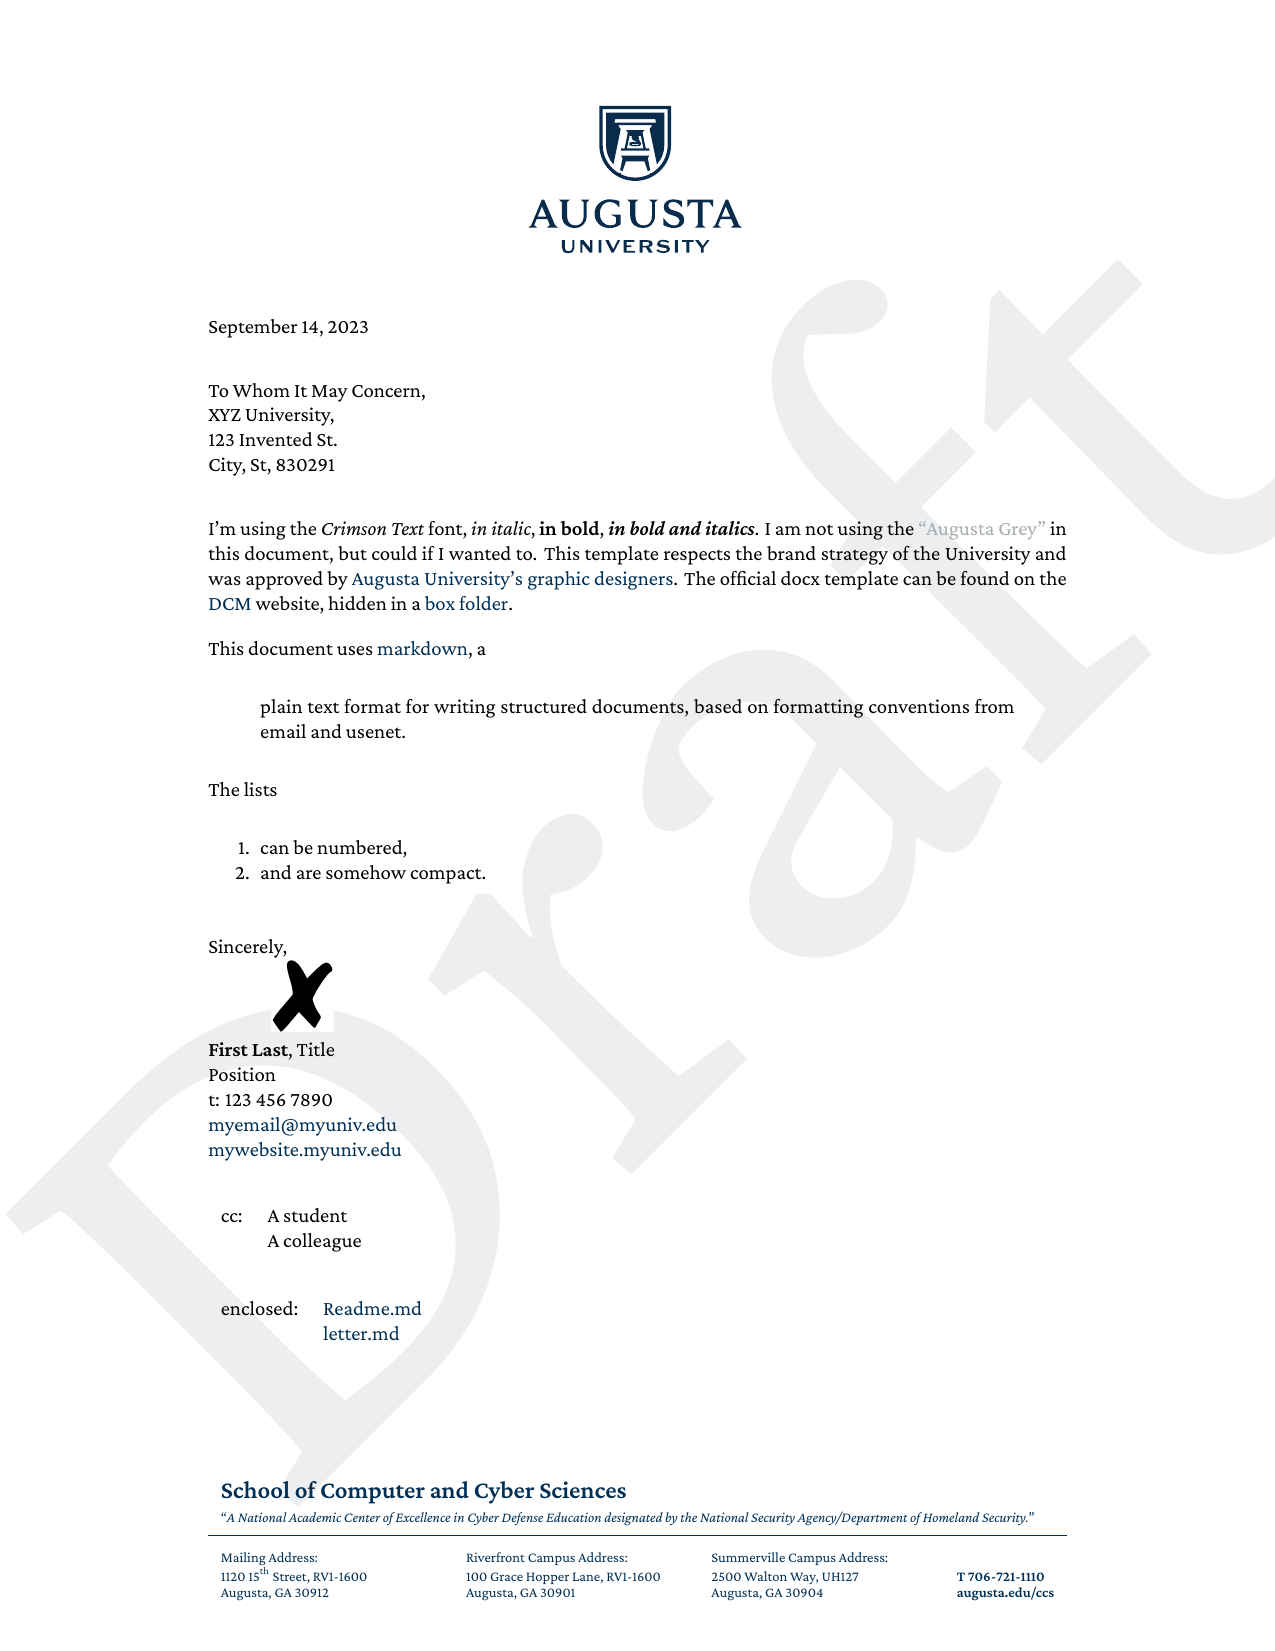
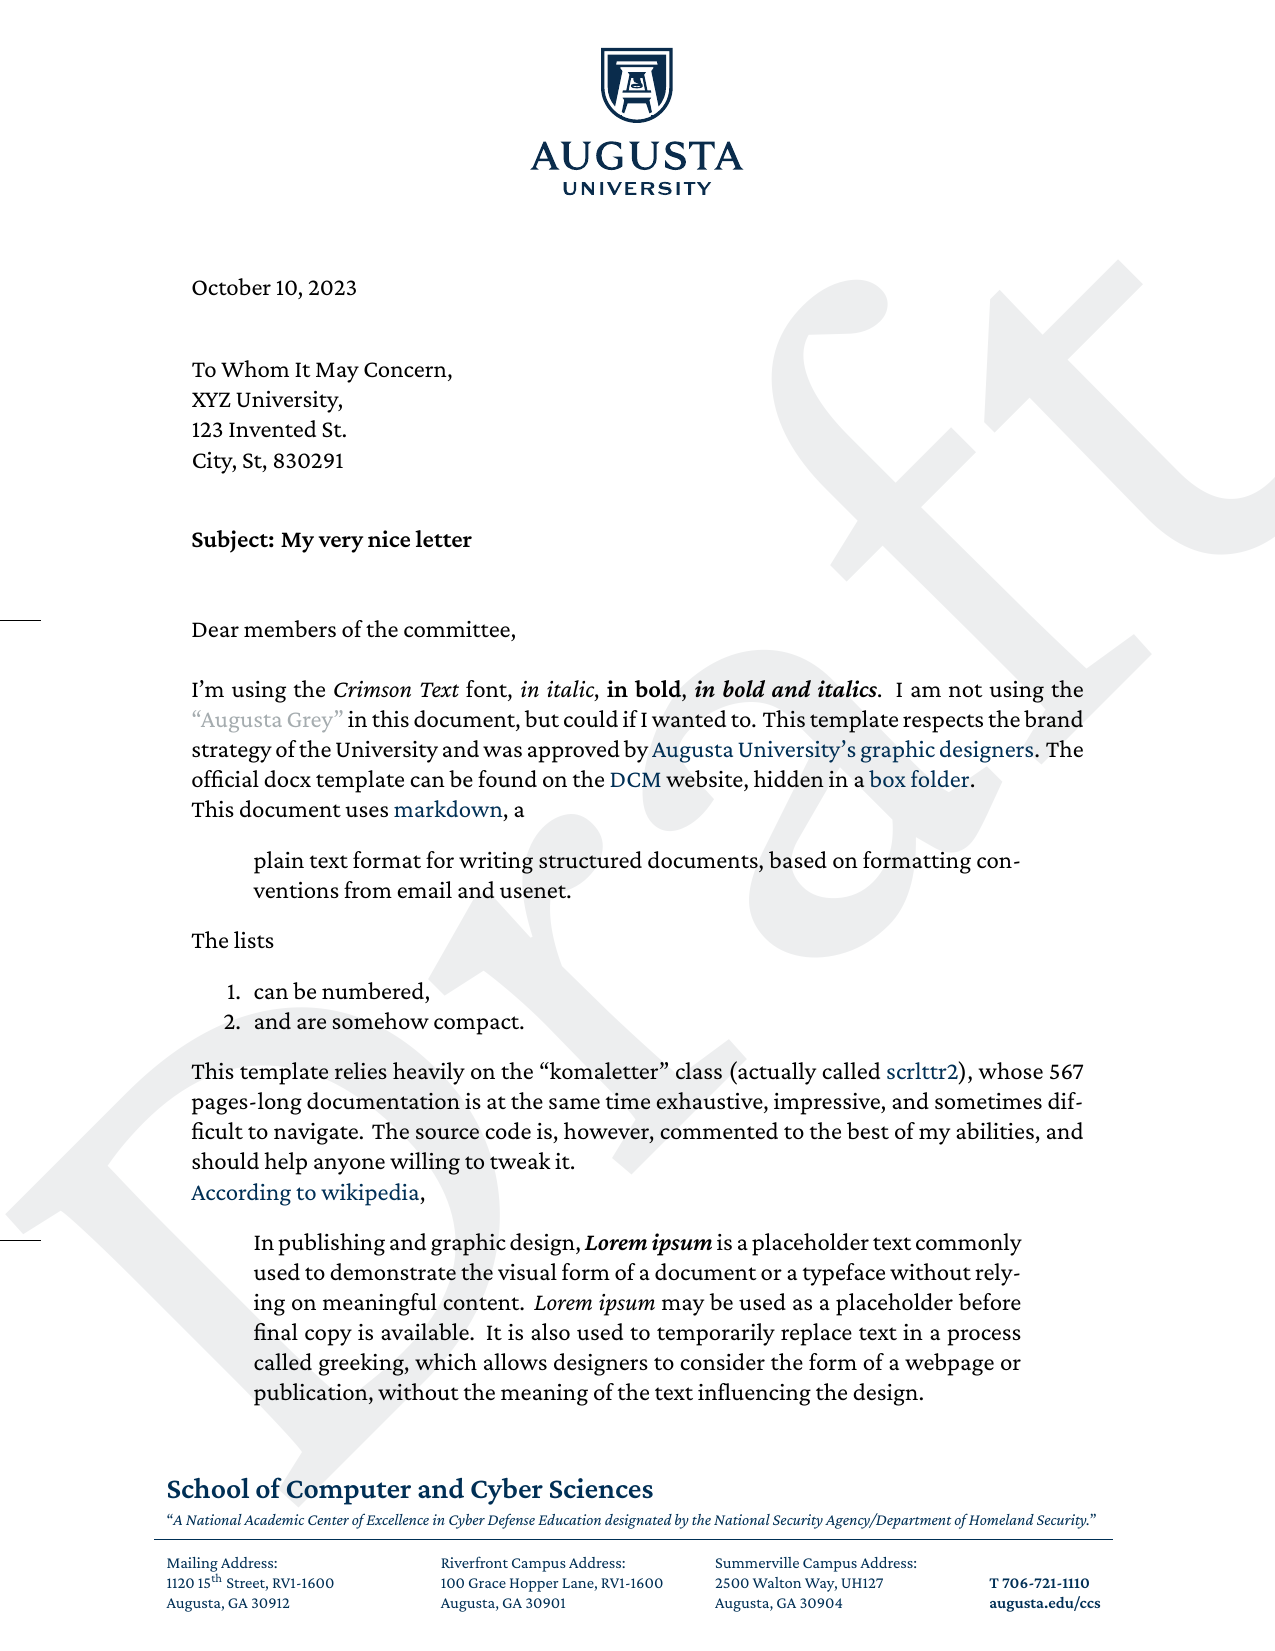
Small progress.

diff --git a/template.tex b/template.tex
@@ -1,4 +1,5 @@
-\documentclass[paper=letter, font=10pt, oneside]{scrlttr2}
+\documentclass[paper=letter, oneside]{scrlttr2}
+% We set the paper to the letter format, and use one-sided formatting.
 
 %%%%%%%%%%%%%%%%%%%% 
 % Possible improvments:
@@ -8,7 +9,6 @@
 %%%%%%%%%%%%%%%%%%%%% 
 
 % Current issues:
-% Center header and footer
 % Check spacing / margins
 % Make sure template still compile if options are not set.
 % Personalise opening and closing
@@ -17,6 +17,7 @@
 % To debug %
 %%%%%%%%%%%%
 
+% To debug the template, please uncomment the following:
 %\LoadLetterOption{visualize}
 %\showfields{head,foot,refline,address,location,firsthead,firstfoot,nextfoot,firstfoothpos}
 %\usepackage{showframe}
@@ -25,10 +26,10 @@
 % Foldmarks %
 %%%%%%%%%%%%%
 
-\KOMAoptions{foldmarks=TBmpL}
-\setplength{foldmarkhpos}{0cm}
-\setplength{tfoldmarklength}{7mm}
-\setplength{bfoldmarklength}{7mm}
+\KOMAoptions{foldmarks=TBmpL}     % We only want the two horizontal foldmarks.
+\setplength{foldmarkhpos}{0cm}    % We want the foldmarks to touch the edge of the paper. 
+\setplength{tfoldmarklength}{7mm} % Length of the top foldmark.
+\setplength{bfoldmarklength}{7mm} % Length of the bottom foldmark.s
 
 %%%%%%%%%%%%%%%%%%
 % Koma variables %
@@ -44,6 +45,7 @@
 % Some layout %
 %%%%%%%%%%%%%%%
 
+% Date and "from" / "to" fields
 \KOMAoptions{backaddress=false}       % We do not dispaly our address on top.
 \KOMAoptions{subject=titled}          % We prefix "Subject:" to the subject.
 \setplength{subjectbeforevskip}{-3em} % Smaller horizontal spacing before the subject
@@ -54,7 +56,9 @@
 \addtoplength{refaftervskip}{\useplength{toaddrheight}}
 % We align the date with the recipient's address.
 \setplength{toaddrhpos}{7.7em} % Value found through trial-and-error.
-% Ideally I would use refhpos but my current understanding is that this value is 0 until \opening is executed.
+% Ideally we would set the value of toaddrhpos to be the same as refhpos, using
+% \setplength{toaddrhpos}{\useplength{refhpos}}
+% but my current understanding is that this value is 0 until \opening is executed.
 
 % If a mention is added.
 $if(mention)$
@@ -93,21 +97,15 @@ $endif$
 
 %%%%%%%%%%%%%%%%%%%%%%%%%%%%%%%%%%%%%%%%%%%%%%%%%%%%
 % Margins                                          %
-% https://brand.augusta.edu/electronic-letterhead/ %
 %%%%%%%%%%%%%%%%%%%%%%%%%%%%%%%%%%%%%%%%%%%%%%%%%%%%
 \usepackage[
 	vmargin={150bp, 150bp},
-%	hmargin = 100bp,
-%	headheight = 6in,
-%	footskip = 80bp
-    bottom=9em
+    bottom=10em
 ]{geometry}
-\setlength{\parskip}{1em} % Large skip between paragraphs
-\setlength{\parindent}{0pt} % No indentations
+\setlength{\parindent}{0pt} % No indentation
 
 %%%%%%%%%%%%%%%%%%%%%%%%%%%%%%%%%%%%%%%%%%%%%%%%%% 
 % Font                                           %
-% https://brand.augusta.edu/typography/          %
 % https://github.com/Fonthausen/CrimsonPro       %
 %%%%%%%%%%%%%%%%%%%%%%%%%%%%%%%%%%%%%%%%%%%%%%%%%% 
 \usepackage{fontspec} 
@@ -121,23 +119,19 @@ $endif$
 
 %%%%%%%%%%%%%%%%%%%%%%%%%%%%%%%%%%%% 
 % Header and footer                %
-% https://brand.augusta.edu/logos/ %
-% http://brand.augusta.edu/assets/ %
 %%%%%%%%%%%%%%%%%%%%%%%%%%%%%%%%%%%% 
 \usepackage{zref-lastpage}
 \usepackage{tabularx} % For the table in the footer
 \usepackage{multirow} % For the table in the footer
-
 \pagestyle{headings}
-%\renewcommand{\headrulewidth}{0pt} % Remove the line after the header
 
 %% Header
+\setkomavar{fromlogo}{%
+    \includegraphics[height=71bp]{logo/AugustaUniversity_S_CMYK.eps}
+} % Image format is 8820x6084, so that's ~103x71bp
 \setkomavar{firsthead}{\usekomavar{fromlogo}}
 \setplength{firstheadwidth}{103bp} % We adjust the size of the box to the width of the logo (rounded up)
-\setplength{firstheadhpos}{\maxdimen} % This should center the first head. We center the first header
-%\KOMAoptions{fromlogo=false}
-\setkomavar{fromlogo}{\includegraphics[height=71bp]{logo/AugustaUniversity_S_CMYK.eps}} % Image format is 8820x6084, so that's ~103x71bp
-% Logo is found from https://augustauniversity.app.box.com/s/hem28kpp3aj4so56p5f7a4abdpplxunl
+% Logo is from https://augustauniversity.app.box.com/s/hem28kpp3aj4so56p5f7a4abdpplxunl
 
 %% Footer
 % This is to compute the width of the table inside the footer.
@@ -165,27 +159,21 @@ $endif$
 % https://pe.usps.com/text/pub28/welcome.htm
 % https://pe.usps.com/cpim/ftp/pubs/Pub28/pub28.pdf
 
-% Some magic for all the footers to be identical
+%% Some magic for all the footers to be identical
+% Cf. https://tex.stackexchange.com/a/218728
 \usepackage{scrlayer-scrpage}
 \usepackage{xpatch}
 \KOMAoptions{firstfoot=false}
 \KOMAoptions{footwidth=page}
 \setkomavar{nextfoot}{\usekomavar{firstfoot}}
-%\ModifyLayer[
-% addvoffset=-1ex
-%]{plain.scrheadings.foot.above.line}% shift the footsepline up
 \addtokomafont{pagefoot}{\normalfont}
 \clearpairofpagestyles
 \cfoot*{\usekomavar{firstfoot}}
 \pagestyle{plain}
 \xapptocmd\opening{\thispagestyle{plain}}{}{}% <- first pages will have pagestyle plain too
 
-%\KOMAoptions{footheight=38pt}
-
-
 %%%%%%%%%%%%%%%%%%%%%%%%%%%%%%%%%%%% 
 % Colors                           %
-% https://brand.augusta.edu/color/ %
 %%%%%%%%%%%%%%%%%%%%%%%%%%%%%%%%%%%% 
 \usepackage{xcolor}
 \definecolor{augustablue}{HTML}{002f55}
@@ -221,7 +209,7 @@ $endif$
 	pdfinfo={
 		Title={Letter from $author$, Augusta University},
 		$if(subject)$
-		Subject={$subject$},
+            Subject={$subject$},
 		$endif$
 		Author={$author$},
 	}

diff --git a/Readme.md b/Readme.md
@@ -1,10 +1,11 @@
 # Letterhead for Augusta University
 
 This is a letterhead for Augusta University.
-This template respects the brand strategy of the University and was approved by [Augusta University's graphic designers](https://brand.augusta.edu/).
+This template respects the brand strategy of the University (as detailed in its ["Brand Guidelines 7.23 2023.pdf"](https://augustauniversity.app.box.com/s/qma2e8nar4ui6bgg43p5lh9qmnfg3e3o) document) and was approved by [Augusta University's graphic designers](https://brand.augusta.edu/).
 The official docx template can be found on the [DCM](https://www.augusta.edu/dcm/marketing/) website, hidden in a [box folder](https://augustauniversity.app.box.com/v/brand-templates/file/777468597182).
 
-!["Preview of the letterhead"](preview-1.png)
+!["Preview of the letterhead (page 1)"](preview-1.png)
+!["Preview of the letterhead (page 2)"](preview-2.png)
 
 Comments, improvements: <caubert@augusta.edu> or open an issue at <https://github.com/aubertc/au_ccs_letterhead_template>.
 
@@ -23,13 +24,45 @@ Requires:
 
 ## Personalization
 
-In the file `template.tex`, 
+### Personal Information
 
-- Change the information ll. 76--84 if you belong to a different school.
-- Personalize the information ll. 129--133.
+In the file `letter.md`, you **must** edit the following values:
 
-In the file `letter.md`, you must edit the _author_ field, and can adjust the _subject_, the _recipient_, the _mention_, the _signature_, the _cc_ and _attachments_ fields or remove them.
+- _author_, please indicate your first and last name,
+- _email_, please indicate your email,
+- _field_, and can adjust the _subject_, the _recipient_, the _mention_, the _signature_, the _cc_ and _attachments_ fields or remove them.
 The file `letter.md` is commented with some indications, and `template.tex` explains its general strategy. It is a [pandoc template file](https://pandoc.org/MANUAL.html#templates) that is written primarily in LaTeX.
+
+<!--
+author: First Last
+email: test@augusta.edu
+website: https://augusta.edu
+phone: "123 456 7890"
+subject: "My very nice letter"
+opening: "Dear members of the committee,"
+closing: "With all my gratitude,"
+ps: "Something I forgot."
+position: "Assistant Professor"
+title: "Dr."
+recipient: | 
+  | To Whom It May Concern,
+  | XYZ University,
+  | 123 Invented St.
+  | City, St, 830291
+mention: "Draft" 
+signature: "signature/sign.pdf"
+cc: 
+    - A student
+    - A colleague
+attachment:
+    - Readme.md
+    - letter.md
+    -->
+    
+### Affiliation
+
+In the file `template.tex`, change the content of the "firstfoot" koma variable if you belong to a different school.
+
 
 # Changelog
 
